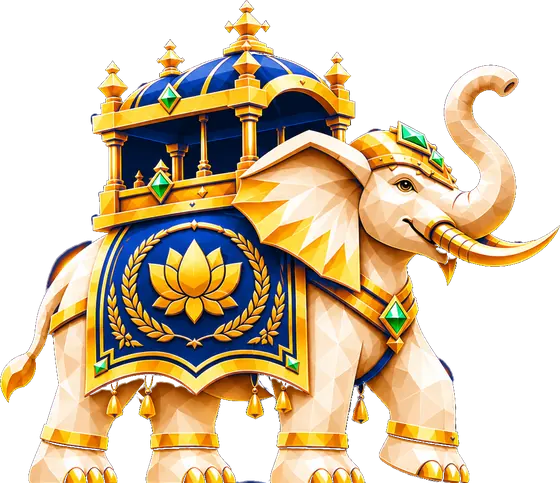
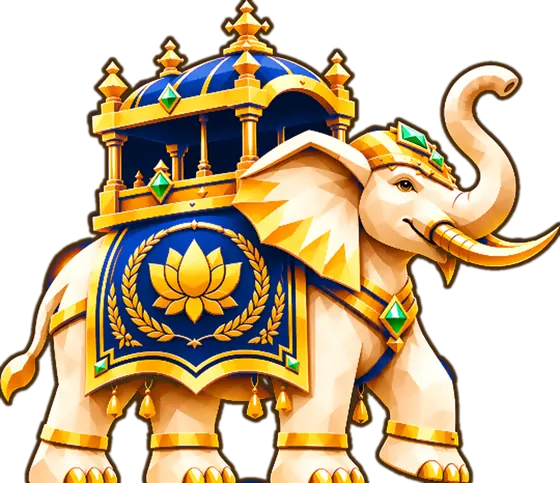
Ludo: Ambaro tokens as game pieces — gold base with the player's colour, simplified elephant
- Each Ambaro token stands on a round gold base with the player's colour around its rim, with a shadow on the board
- Elephant artwork simplified for small sizes (fine facet texture smoothed, clean dark outline); red a deeper
  crimson and yellow a golden amber so all four colours are clearly different
- The 1st-place procession shows the elephant without the base

Claude-Session: https://claude.ai/code/session_015vFbHNJonZriv77hd1f91Y

diff --git a/web/src/ludo/pieces.tsx b/web/src/ludo/pieces.tsx
@@ -66,7 +66,8 @@ export function PieceDefs() {
     Each piece's art sits in a group (.ld-art) so the capture animations can move parts of it. */
 const AMBARO_ART: Record<Color, string> = { red: ambaroRed, green: ambaroGreen, yellow: ambaroYellow, blue: ambaroBlue };
 
-export function Piece({ set, color }: { set: TokenSet; color: Color }) {
+/** A token. `bare`: the Ambaro elephant without its game-piece base (for the 1st-place procession). */
+export function Piece({ set, color, bare }: { set: TokenSet; color: Color; bare?: boolean }) {
   const ball = `url(#ldp-${color}-ball)`, body = `url(#ldp-${color}-body)`, v = `url(#ldp-${color}-v)`, t = TONES[color];
   const gold = "url(#ldp-gold)", goldH = "url(#ldp-gold-h)";
   if (set === "sentry") {
@@ -121,7 +122,17 @@ export function Piece({ set, color }: { set: TokenSet; color: Color }) {
     case "ambaro":
       /* The Ambaro elephant itself: the logo artwork (ivory elephant, golden ambari, gold lotus on the blanket), cut out
          and with the blanket and canopy recoloured to each player's colour (art/ambaro-<colour>.webp). */
-      art = <image href={AMBARO_ART[color]} x="-1" y="2" width="50" height="43.1" preserveAspectRatio="xMidYMax meet" />; break;
+      /* stood on a round gold base with the player's colour around its rim, like a carved game piece */
+      if (bare) return <svg className="ld-piece" viewBox="0 0 48 41.4" aria-hidden="true" focusable="false"><image href={AMBARO_ART[color]} x="0" y="0" width="48" height="41.4" /></svg>;
+      return <svg className="ld-piece" viewBox="0 -3 48 52" aria-hidden="true" focusable="false">
+        <ellipse cx="24" cy="46.2" rx="19" ry="3.2" fill="rgba(0,0,0,.3)" />
+        <g className="ld-art">
+          <path d="M6.5 41.9 V43.6 A17.5 4.2 0 0 0 41.5 43.6 V41.9 Z" fill={body} stroke="#6e4a14" strokeWidth=".45" />
+          <ellipse cx="24" cy="41.9" rx="17.5" ry="3.7" fill={goldH} stroke="#8a5f18" strokeWidth=".4" />
+          <ellipse cx="24" cy="41.7" rx="14.2" ry="2.5" fill="none" stroke="rgba(255,243,192,.75)" strokeWidth=".5" />
+          <image href={AMBARO_ART[color]} x="2" y="4.4" width="44" height="38" preserveAspectRatio="xMidYMax meet" />
+        </g>
+      </svg>;
     case "tiger":
       /* A lacquered Channapatna-style toy tiger painted in the player's colour, with dark stripes and a gold collar. */
       art = <>

diff --git a/web/src/ludo/Celebration.tsx b/web/src/ludo/Celebration.tsx
@@ -71,7 +71,7 @@ export function Celebration({ place, color, name, onDone }: { place: number; col
       <em>{you ? "You win!" : `${name} wins!`}</em>
     </div>
     <div className="ld-cel-road" />
-    <div className="ld-cel-walk"><div className="ld-cel-bob"><Piece set="ambaro" color={color} /></div></div>
+    <div className="ld-cel-walk"><div className="ld-cel-bob"><Piece set="ambaro" color={color} bare /></div></div>
   </div>;
   if (place === 1) return <div className="ld-cel ld-cel-2" aria-hidden="true">
     <div className="ld-cel-label"><strong>2nd place</strong><em>{you ? "Well played!" : name}</em></div>
